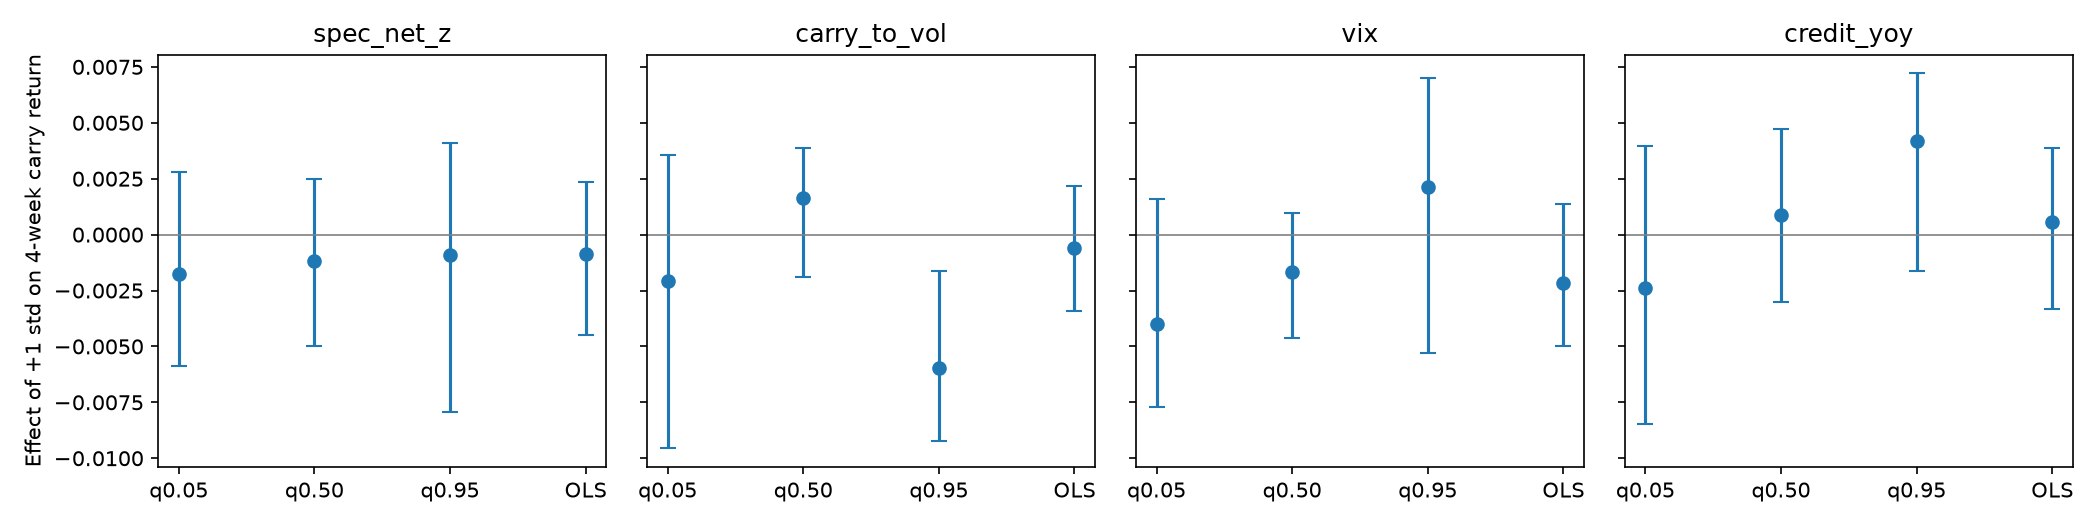
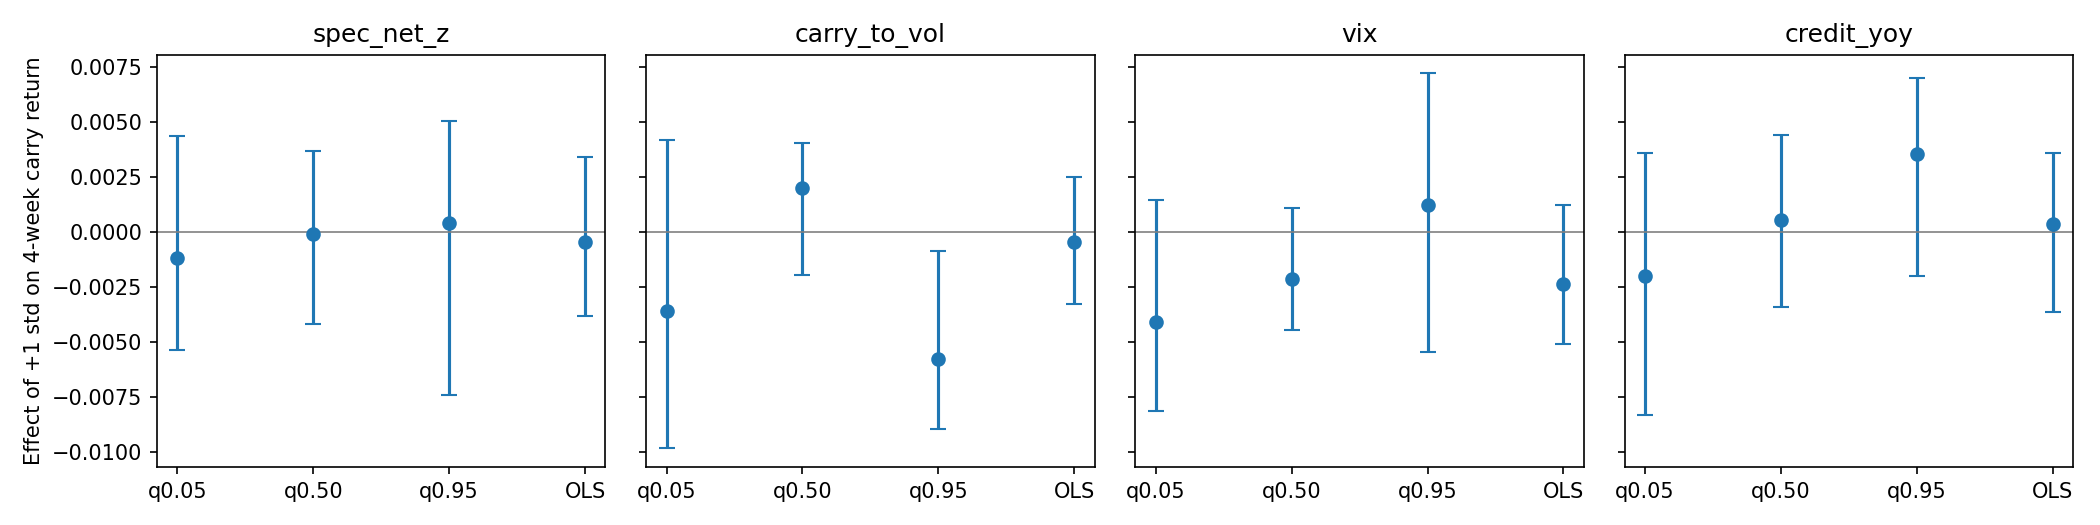
updated installation instructions for python 3.11+

diff --git a/README.md b/README.md
@@ -22,13 +22,16 @@ TODO
 
 ## Installation
 
+This project requires Python 3.11 or newer. Install that version first; using
+an older Python version will make the pinned pandas dependency fail to install.
+
 Create and activate a virtual environment from the repository root, then install
 the project's dependencies into it:
 
 macOS / Linux:
 
 ```bash
-python3 -m venv .venv
+python3.11 -m venv .venv
 source .venv/bin/activate
 python -m pip install --upgrade pip
 python -m pip install -r requirements.txt
@@ -38,7 +41,7 @@ python -m pip install -e .
 Windows (PowerShell):
 
 ```powershell
-py -m venv .venv
+py -3.11 -m venv .venv
 .\.venv\Scripts\Activate.ps1
 python -m pip install --upgrade pip
 python -m pip install -r requirements.txt
